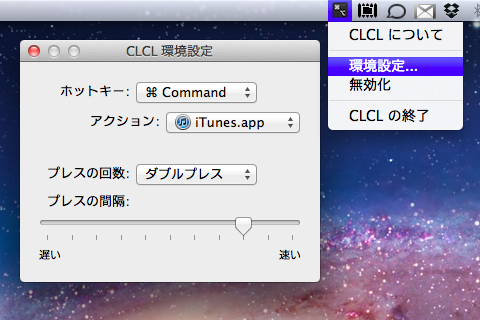
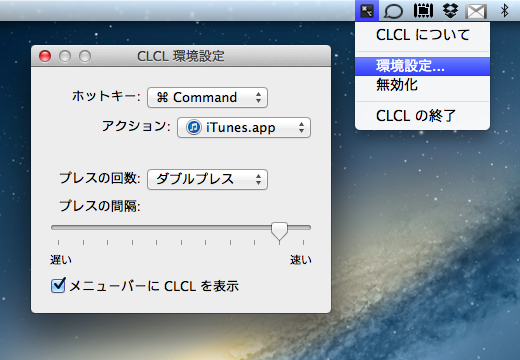
add new release CLCL v1.2

diff --git a/mac/clcl/index.html b/mac/clcl/index.html
@@ -84,6 +84,10 @@
       <section>
         <h1>ヴァージョン履歴</h1>
         <dl>
+
+          <dt>ver. 1.2, 2013年1月3日</dt>
+          <dd>メニューバーのアイコンを非表示にする設定項目を追加</dd>
+
           <dt>ver. 1.1.1, 2012年2月24日</dt>
           <dd>アプリケーションがクラッシュしてしまう場合がある問題を修正</dd>
 

diff --git a/mac/clcl/index_en.html b/mac/clcl/index_en.html
@@ -84,6 +84,10 @@
       <section>
         <h1>Version history</h1>
         <dl>
+
+          <dt>ver. 1.2, 2013-1-3</dt>
+          <dd>Added a preference to hide a menu bar icon</dd>
+
           <dt>ver. 1.1.1, 2012-2-24</dt>
           <dd>Fixed an issue that app crashes</dd>
 
